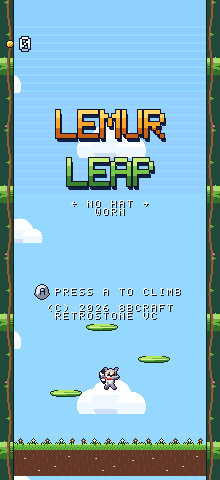
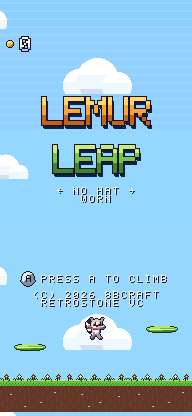
Lemur Leap: upright, the column fills the phone's whole width (the owner's note)
The zoom is chosen from the display's shape so that the columns shown are exactly the column's 192: 416 lines
on 1080x2340, 448 on 1080x2520, 384 on 720x1440, 341 on 1080x1920. No side panels upright: the lemur leaving one
edge comes in at the other, seamlessly; the HUD stays on its band at the top; the title's lemur hops under the
credits with the room it has. The climb is the same at every size (only the zoom changes); landscape and the
console keep the column between its beanstalk panels. make lemurleap-check passes (the phone turning both ways,
states across widths, 1386 language runs); upright frame cost 0.40 ms on the host.

diff --git a/games/lemurleap/src/main.c b/games/lemurleap/src/main.c
@@ -32,7 +32,6 @@
 #include <stdio.h>
 #include <string.h>
 
-#define ZOOM_H        480           /* a phone held upright: 480 lines zoomed to the display's height (docs/spec.md) */
 #define START_INPUTS  (RS_BTN_START)
 #define BOT_START     30
 #define SNAP_EVERY    (30 * SEC)    /* the climb kept this often (and when left from the pause) */
@@ -427,9 +426,29 @@ static void game_draw(void)
     draw_frame(&W, &v);
 }
 
+/* A phone held upright: the zoom (docs/spec.md "Tall screen") whose columns shown are exactly the climb's column
+ * (COL_W): the screen's height is COL_W x the display's height / its width (416 lines on 1080x2340, 448 on 1080x2520,
+ * 384 on 720x1440), so the column fills the display's whole width and wraps at its edges. The display's shape is read
+ * back from a first zoom: every column of a display up to 320 x 720 (its height then), else the columns it shows. The
+ * climb is the same at every size (the world never reads the screen); only the picture changes. Landscape, 4:3, a
+ * display less tall than that: 240 lines, the column between its side panels. */
+static void portrait_zoom(void)
+{
+    int h1 = rs_screen_zoom(RS_SCREEN_H_MAX);
+    if (h1 <= RS_SCREEN_H) return;
+    int v1 = rs_screen_visible_x1() - rs_screen_visible_x0();
+    long req = v1 >= RS_SCREEN_W ? h1 : (long)RS_SCREEN_W * h1 / v1;      /* the display's height at 320 columns */
+    int h = (int)(req * COL_W / RS_SCREEN_W) - 4;
+    for (int k = 0; k < 16; k++, h++) {
+        if (h <= RS_SCREEN_H) { rs_screen_zoom(RS_SCREEN_H); continue; }
+        rs_screen_zoom(h);
+        if (rs_screen_visible_x1() - rs_screen_visible_x0() >= COL_W) return;
+    }
+}
+
 static void game_init(void)
 {
-    rs_screen_zoom(ZOOM_H);                     /* a phone held upright: zoomed, the climb above the stage */
+    portrait_zoom();                            /* a phone held upright: zoomed so that the column fills its width */
     save_load();
     opt_music = rs_option_int("music", 1);
     opt_sound = rs_option_int("sound", 1);

diff --git a/games/lemurleap/src/draw.c b/games/lemurleap/src/draw.c
@@ -709,6 +709,7 @@ void draw_frame(const world *w, const view *v)
     rs_bg_scroll(RS_BG4, (tick / 8) & 255, (cam / 4) & 255);
     rs_bg_scroll(RS_BG3, 0, (cam / 8) & 511);
     rs_bg_scroll(RS_BG2, 0, (cam / 2) & 255);
+    rs_bg_enable(RS_BG2, !tall());                       /* upright: no side panels, the column is the whole width */
     rs_brightness(15);
 
     /* the UI layer: redrawn when what it shows changes */
@@ -805,10 +806,12 @@ void draw_frame(const world *w, const view *v)
             cur_fur = -1;
         }
         if (!narrow) spr(SPR_LEAF + (frame == HERO_SQUASH), mx - 16, my + 23 + 1, 2, 0);
-        else {                                             /* upright: a real bounce off the ground, leaves above it */
-            lift = lift * 5;
-            static const int16_t LV[3][2] = {{36, 150}, {124, 116}, {72, 84}};
-            for (int k = 0; k < 3; k++) spr(SPR_LEAF, COL_X + LV[k][0], LV[k][1], 2, 0);
+        else {                                             /* upright: a bounce off the ground, under the credits */
+            int free = (STAGE_H - 36) - (ht_pin_screen_y(HT_PIN_TITLE) + 30 * 8 - rs_screen_origin_y());
+            int room = free - 28;                          /* (the lines between the credits and the ground) */
+            lift = room > 12 ? lift * (room < 60 ? room : 60) / 12 : lift;
+            if (free > 64) spr(SPR_LEAF, COL_X + 14, STAGE_H - 36 - free / 2, 2, 0);
+            if (free > 64) spr(SPR_LEAF, COL_X + COL_W - 46, STAGE_H - 36 - free * 3 / 4, 2, 0);
         }
         draw_lemur_at(NULL, frame, 0, mx - 12, my - lift + 2, hat, 0);
         if (!(v->owned & (1 << v->look))) spr(SPR_LOCK, mx + 12, my + 20, 3, 0);

diff --git a/games/lemurleap/DESIGN.md b/games/lemurleap/DESIGN.md
@@ -80,11 +80,14 @@ a moving one, shoots the pests above) climbs 1500 m on every seed with the pests
 | BG2 | the side panels: the giant beanstalk's stalks, their leaves, a vine on the column's edge; high priority: they hide what passes outside the column (the lemur crossing the wrap shows on both sides, cut at the edges); their background takes the zone's colours | 1/2 |
 | BG1 | the house kit: the HUD in boxes on the panels (the height, the record, the coins, the power-up's bar: icons and digits only), the title, the results, PAUSED | |
 
-**Widescreen**: wider panels (more beanstalk). **Tall screen** (a phone held upright): `rs_screen_zoom(480)`: 480
-lines fill the display's height, 204 to 220 columns shown (the column and a strip of each stalk); the stage at the
-screen's bottom, so the 240 lines above it show the climb ahead; the HUD pinned at the top (the height big in the
-middle, the coins and the record at the sides, clear of the app's corner buttons). The title and the results use
-house_tall.h's layouts, pinned on the screen; the lemur hops on the garden's ground at the bottom of the title.
+**Widescreen**: wider panels (more beanstalk). **Tall screen** (a phone held upright, the owner's note: the column
+fills the whole width): the zoom (`rs_screen_zoom`, main.c `portrait_zoom`) is chosen from the display's shape so that
+the columns shown are exactly the 192 of the column: 416 lines on 1080x2340, 448 on 1080x2520, 384 on 720x1440, 341
+on 1080x1920. No side panels upright (BG2 off): the lemur leaving one edge comes in at the other, seamlessly. The climb
+is the same at every size (only the zoom changes). The stage sits at the screen's bottom, so the lines above it show
+the climb ahead; the HUD is pinned at the top on a band (the height big in the middle, the coins and the record at the
+sides). The title and the results use house_tall.h's layouts, pinned on the screen; the lemur hops on the garden's
+ground at the bottom of the title. The touch halves are the screen's (the column's) halves.
 
 ## Screens
 title (the logo, the lemur hopping on a leaf wearing the look shown, the wardrobe's line, its price or WORN, the
